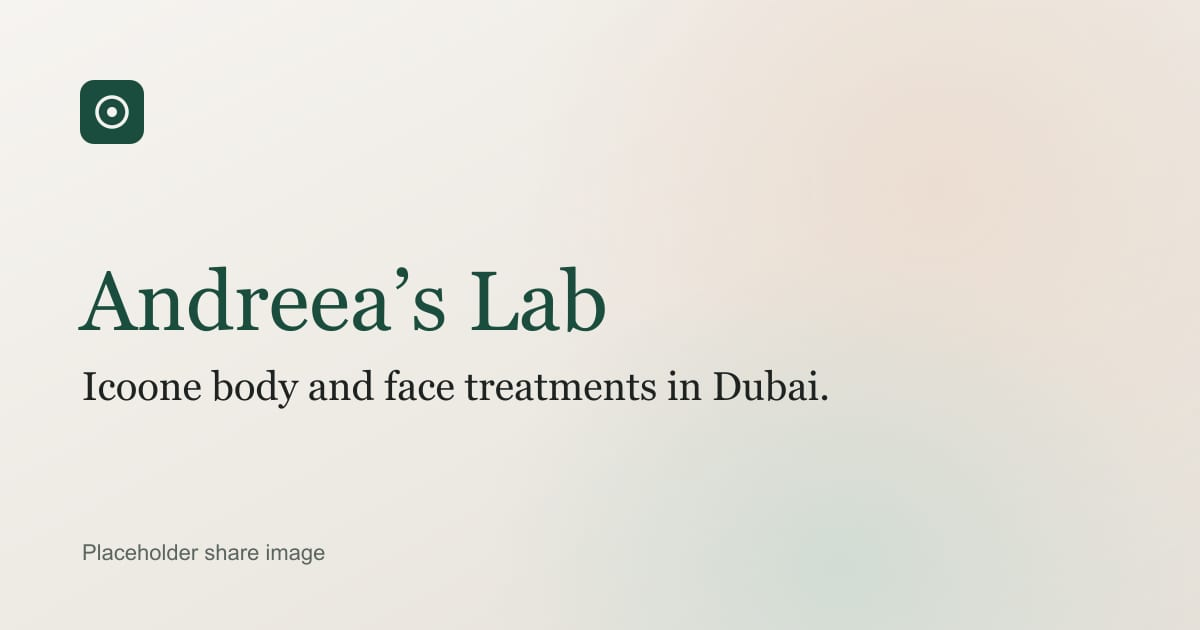
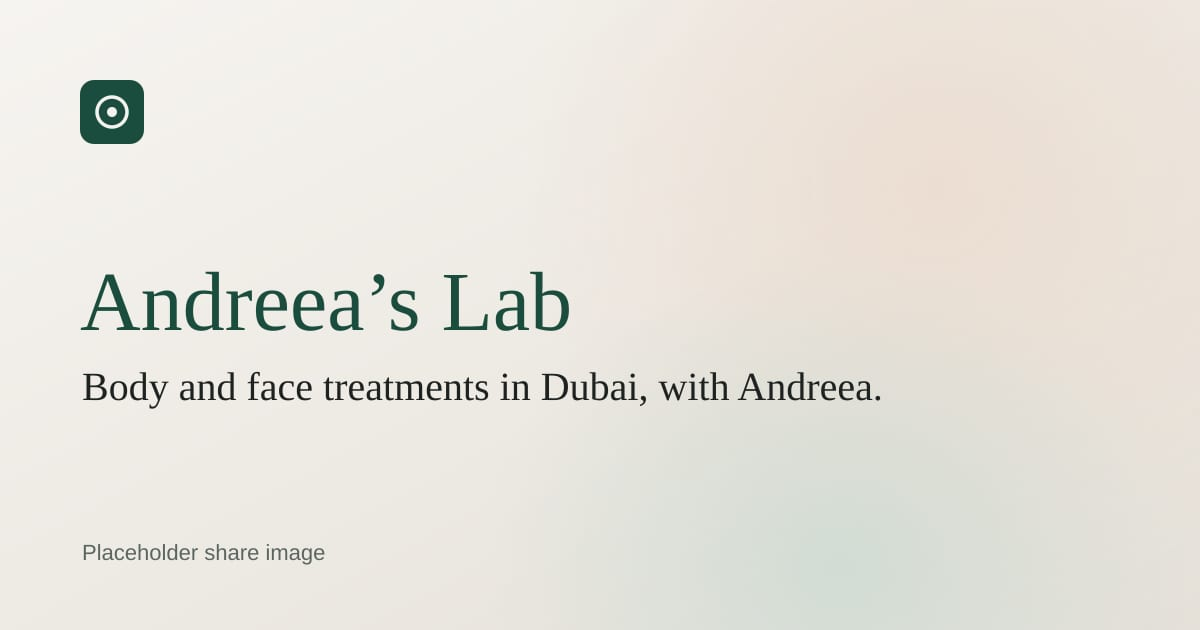
Lead the home page with Andreea and add the courses section
At Andreea's request the copy now leads with her rather than with Icoone,
which stays as the named method. The hero reads "Body and face treatments
in Dubai, with Andreea."; the tagline, meta description, share image, web
manifest and the default WhatsApp topic follow. Services are unchanged.

"Why Andreea" moves up to sit directly under the hero, followed by a new
"Courses and videos" section: statement and Instagram link on the left,
the video slot and the interest form on the right. Treatments, the method
explanation (now "What Andreea does") and the rest keep their order.

The treatments page heading becomes "Treatments with Andreea".

Claude-Session: https://claude.ai/code/session_014fYSRzYUFzmbaDBXrjWLoi

Changed region(s): [[0.0617, 0.4222, 0.5242, 0.5429], [0.0617, 0.573, 0.74, 0.6635]]

diff --git a/src/site.config.ts b/src/site.config.ts
@@ -44,9 +44,9 @@ export const SITE = {
   /** From the Instagram logo “Est. 2019” – confirm with Andreea */
   established: "2019",
 
-  tagline: "Icoone body and face treatments in Dubai.",
+  tagline: "Body and face treatments in Dubai, with Andreea.",
   description:
-    "Icoone lymphatic drainage, skin firming, body remodelling and post-surgery recovery in Dubai, planned as a course and performed by one licensed practitioner.",
+    "Andreea’s Lab, Dubai: lymphatic drainage, skin firming, body remodelling and post-surgery recovery with Icoone. One licensed practitioner, every session with Andreea.",
 
   practitioner: {
     firstName: "Andreea",
@@ -87,7 +87,7 @@ export const SITE = {
     messageTemplate:
       "Hi Andreea, I found you via the website and would like to ask about {treatment}.",
     /** Used when no treatment is named */
-    defaultTopic: "Icoone treatments",
+    defaultTopic: "a treatment",
     buttonLabel: "Message Andreea on WhatsApp",
     buttonLabelShort: "WhatsApp",
   },
